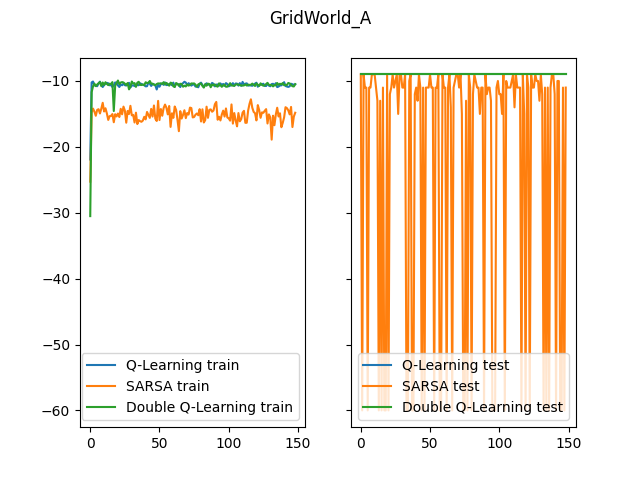
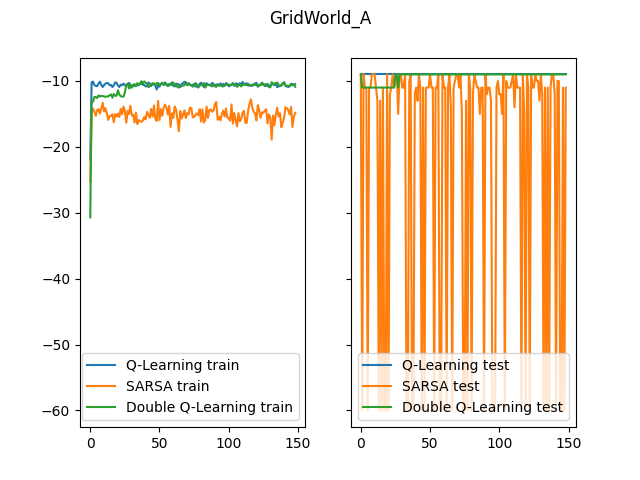
add gamma param in double ql and change envB

Changed region(s): [[0.125, 0.1562, 0.4688, 0.2188], [0.5625, 0.125, 0.625, 0.1875]]

diff --git a/main.py b/main.py
@@ -19,7 +19,7 @@ def plot_for_env(env_name, q_tr, q_te, sarsa_tr, sarsa_te, dq_tr, dq_te):
     plt.savefig(f"{env_name}.png")
     plt.close()
     
-def getPolicies(qQ, sQ, dqQ, cfg):
+def getPolicies(qQ, sQ, dqQ, cfg, world):
     mapqQ = np.argmax(qQ, axis=1)
     mapqQ = mapqQ.reshape(cfg["world_size"][0], cfg["world_size"][1]) # they are reversed
     mapsQ = np.argmax(sQ, axis=1)
@@ -50,7 +50,7 @@ def getPolicies(qQ, sQ, dqQ, cfg):
         ax.set_xlabel('Columns')
         ax.set_ylabel('Rows')
     plt.tight_layout()
-    plt.savefig("Policies.jpeg")
+    plt.savefig(f"Policies_{world}.jpeg")
     plt.show()
     plt.close()
     
@@ -59,7 +59,7 @@ def main():
     cfg = {
         "num_actions": 4,
         "world_size": [7, 10],
-        "world_type": "A"
+        "world_type": "B"
     }
     env = GridWorld(cfg=cfg)
 
@@ -79,14 +79,14 @@ def main():
         elif name == "Double Q-Learning":
             dq_tr, dq_te, dqlens, dqQ = double_q_learning(env, gamma, epsilon, alpha, num_steps, eval_iter)
 
-    getPolicies(qQ, sQ, dqQ, cfg)
-    plot_for_env("GridWorld_A", q_tr, q_te, sarsa_tr, sarsa_te, dq_tr, dq_te)
+    getPolicies(qQ, sQ, dqQ, cfg, cfg['world_type'])
+    plot_for_env(f"GridWorld_{cfg['world_type']}", q_tr, q_te, sarsa_tr, sarsa_te, dq_tr, dq_te)
     plt.figure()
     plt.plot(list(range(len(qlens))), qlens, label="Q lengths")
     plt.plot(list(range(len(slens))), slens, label="SARSA lengths")
     plt.plot(list(range(len(dqlens))), dqlens, label="Double Q lengths")
     plt.legend()
-    plt.savefig("ep_lens.png")
+    plt.savefig(f"ep_lens_{cfg['world_type']}.png")
     plt.close()
 
 if __name__=="__main__":

diff --git a/gridworld.py b/gridworld.py
@@ -21,13 +21,14 @@ class GridWorld(gym.Env):
         self.curr_pos = [self.w//2, 0]
         self.type = cfg["world_type"]
         self.goal = [self.w//2, 7]
-        self.max_steps = 60
         self.curr_steps = 0
 
         if self.type == "A":
             self.obstacles = [[i, 5] for i in range(1, 5)]
+            self.max_steps = 60 
         elif self.type == "B":
             self.wind = [0, 0, 0, 1, 1, 1, 2, 2, 1, 0]
+            self.max_steps = 150 
 
         self.step_func = self.a_step if self.type == "A" else self.b_step
 
@@ -63,15 +64,14 @@ class GridWorld(gym.Env):
         return self.h * self.curr_pos[0] + self.curr_pos[1], reward, done, truncated, {}
     
     def b_step(self, action):
-
         next_pos = [
-            self.curr_pos[0] + self.dy[action],
-            self.curr_pos[1] + self.dx[action]
+            self.curr_pos[0] + self.dx[action],
+            self.curr_pos[1] + self.dy[action]
         ]
-        next_pos[0] -= self.wind[self.curr_pos[1]]
         if check_inside(next_pos[0], next_pos[1], self.w, self.h):
+            next_pos[0] -= self.wind[next_pos[1]]
+            next_pos[0] = max(0, next_pos[0])
             self.curr_pos = next_pos
-
         reward = -1
         done = False
         truncated = False
@@ -81,4 +81,4 @@ class GridWorld(gym.Env):
             done = True
         elif self.curr_steps >= self.max_steps:
             truncated = True
-        return self.w * self.curr_pos[0] + self.curr_pos[1], reward, done, truncated, {}
+        return self.h * self.curr_pos[0] + self.curr_pos[1], reward, done, truncated, {}

diff --git a/algorithms.py b/algorithms.py
@@ -117,9 +117,9 @@ def double_q_learning(env, gamma, epsilon, alpha, iterations, _evaluation_step =
 
             total_reward += reward
             if random.random() < 0.5:
-                Q1[state, action] += alpha * (reward + Q1[next_state, np.argmax(Q2[next_state])] - Q1[state, action])
+                Q1[state, action] += alpha * (reward + gamma * Q1[next_state, np.argmax(Q2[next_state])] - Q1[state, action])
             else:
-                Q2[state, action] += alpha * (reward + Q2[next_state, np.argmax(Q1[next_state])] - Q2[state, action])
+                Q2[state, action] += alpha * (reward + gamma * Q2[next_state, np.argmax(Q1[next_state])] - Q2[state, action])
             state = next_state
             ep_len += 1
 
